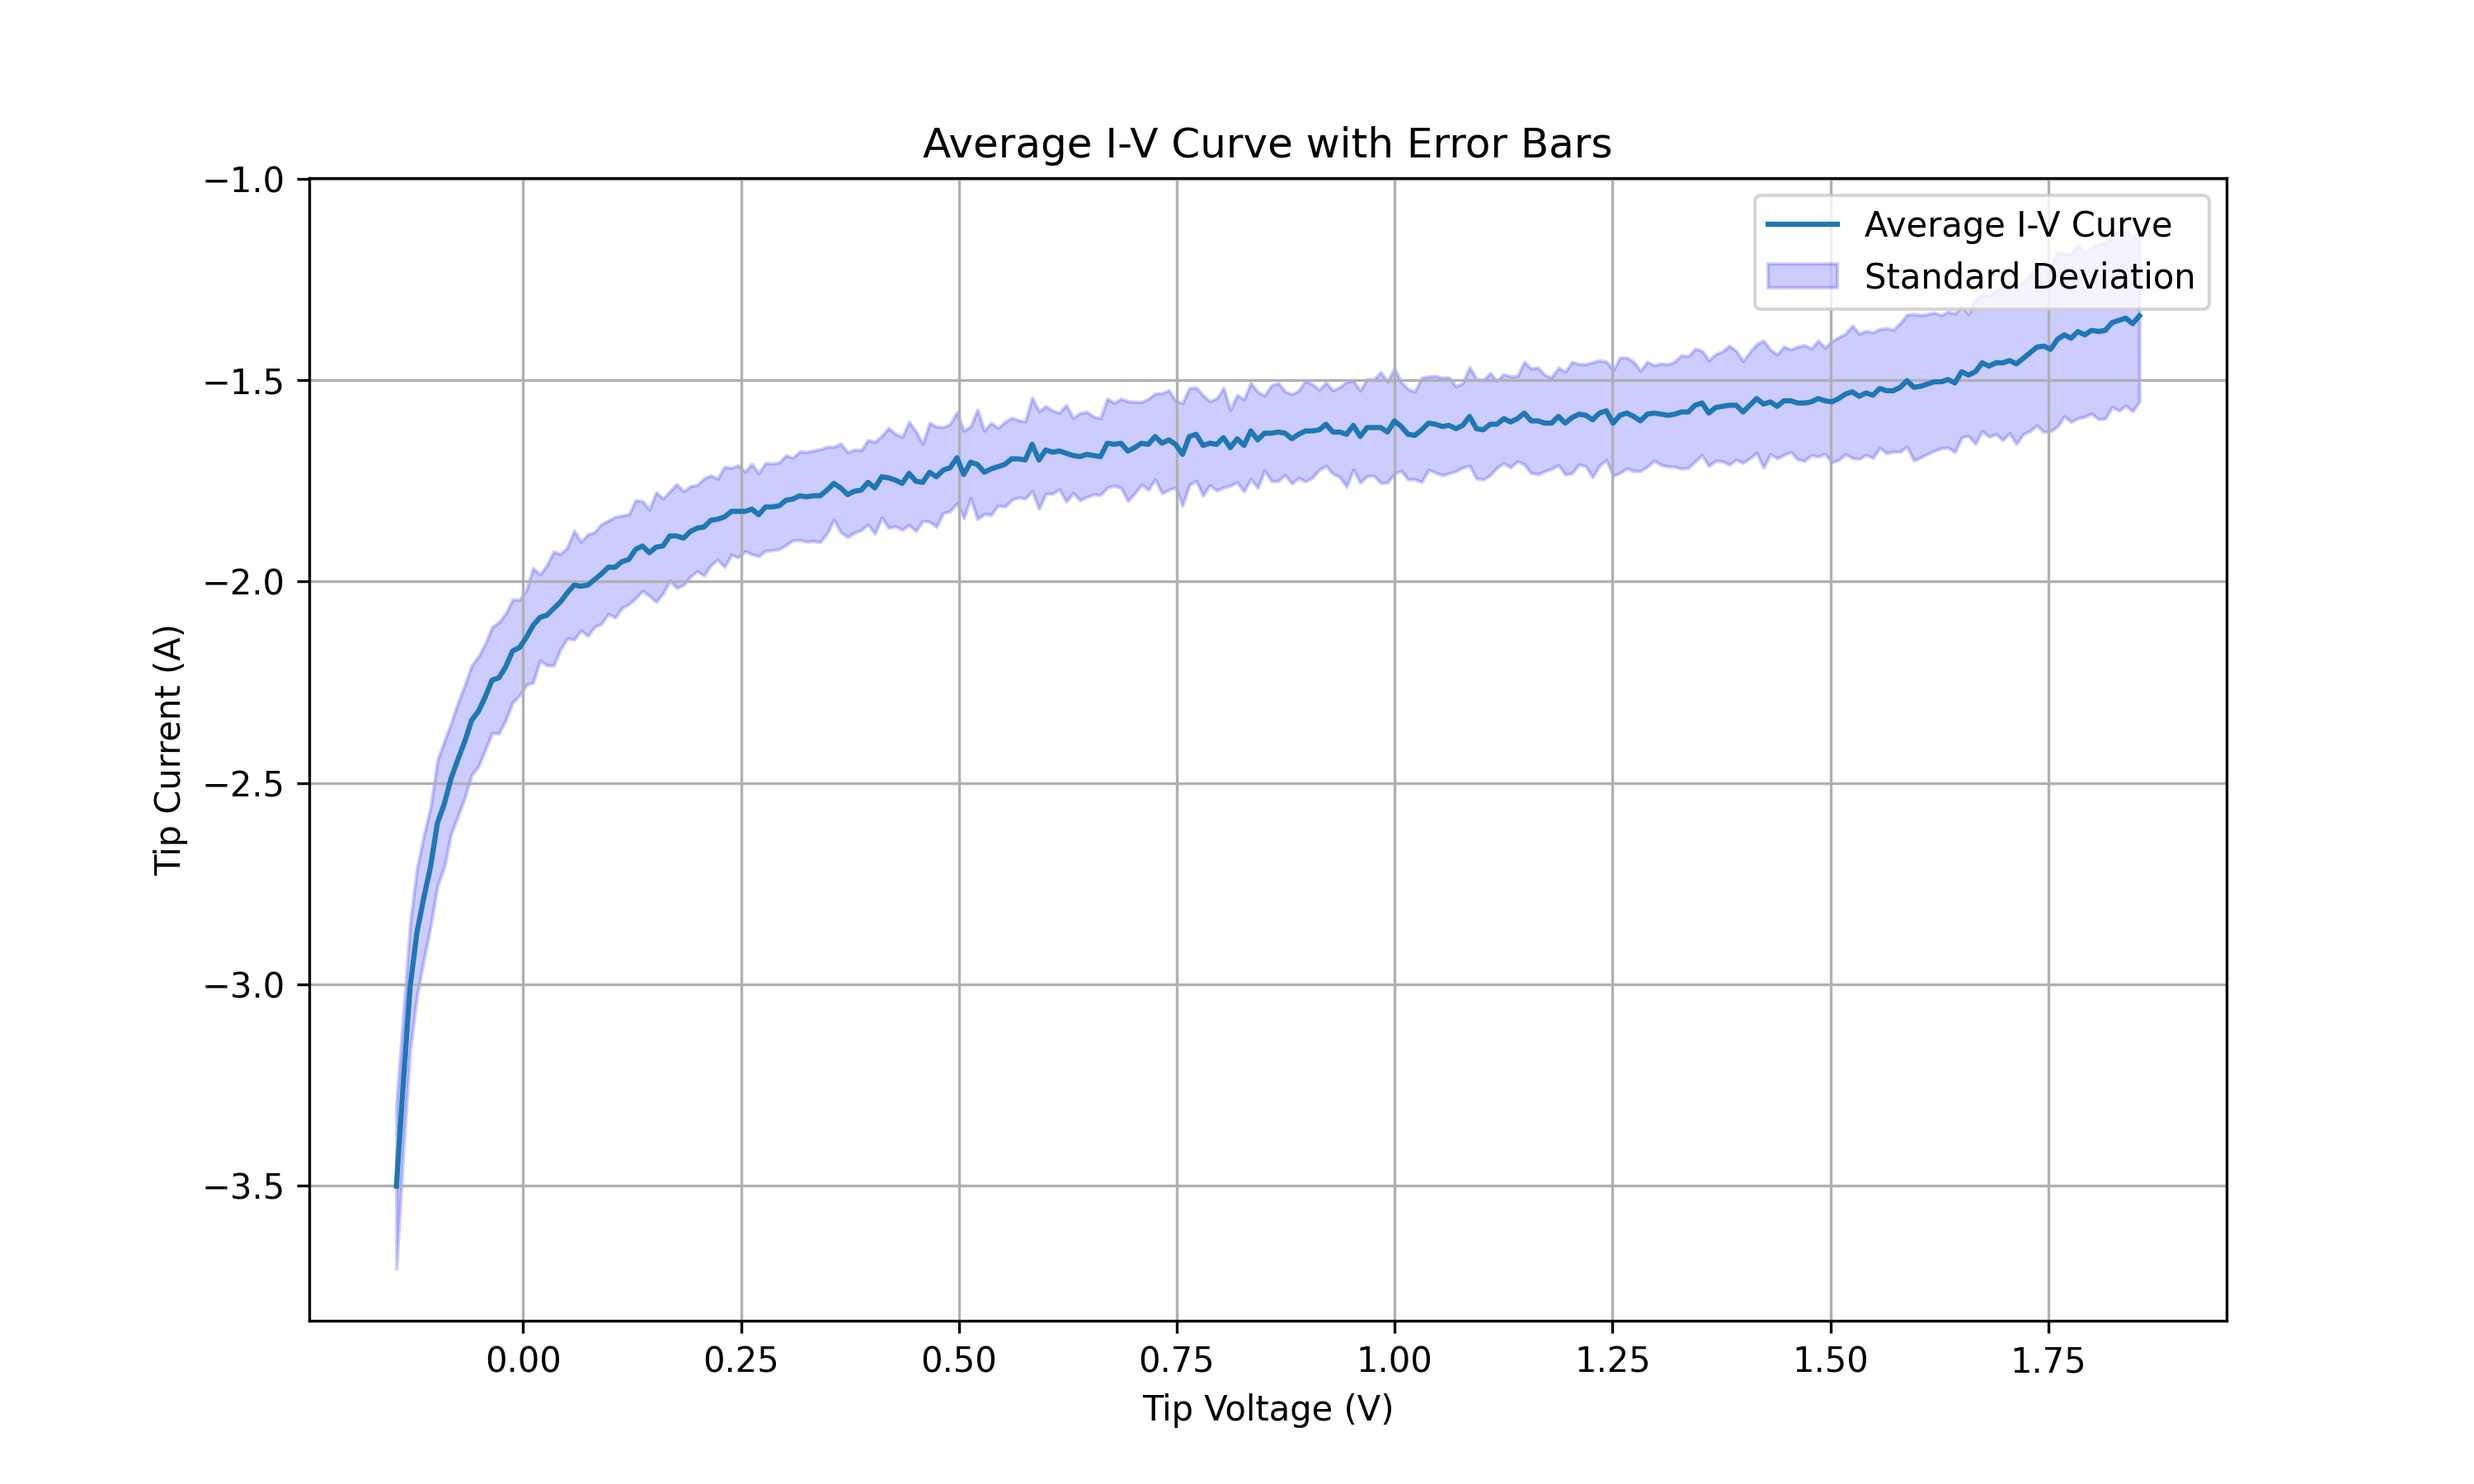
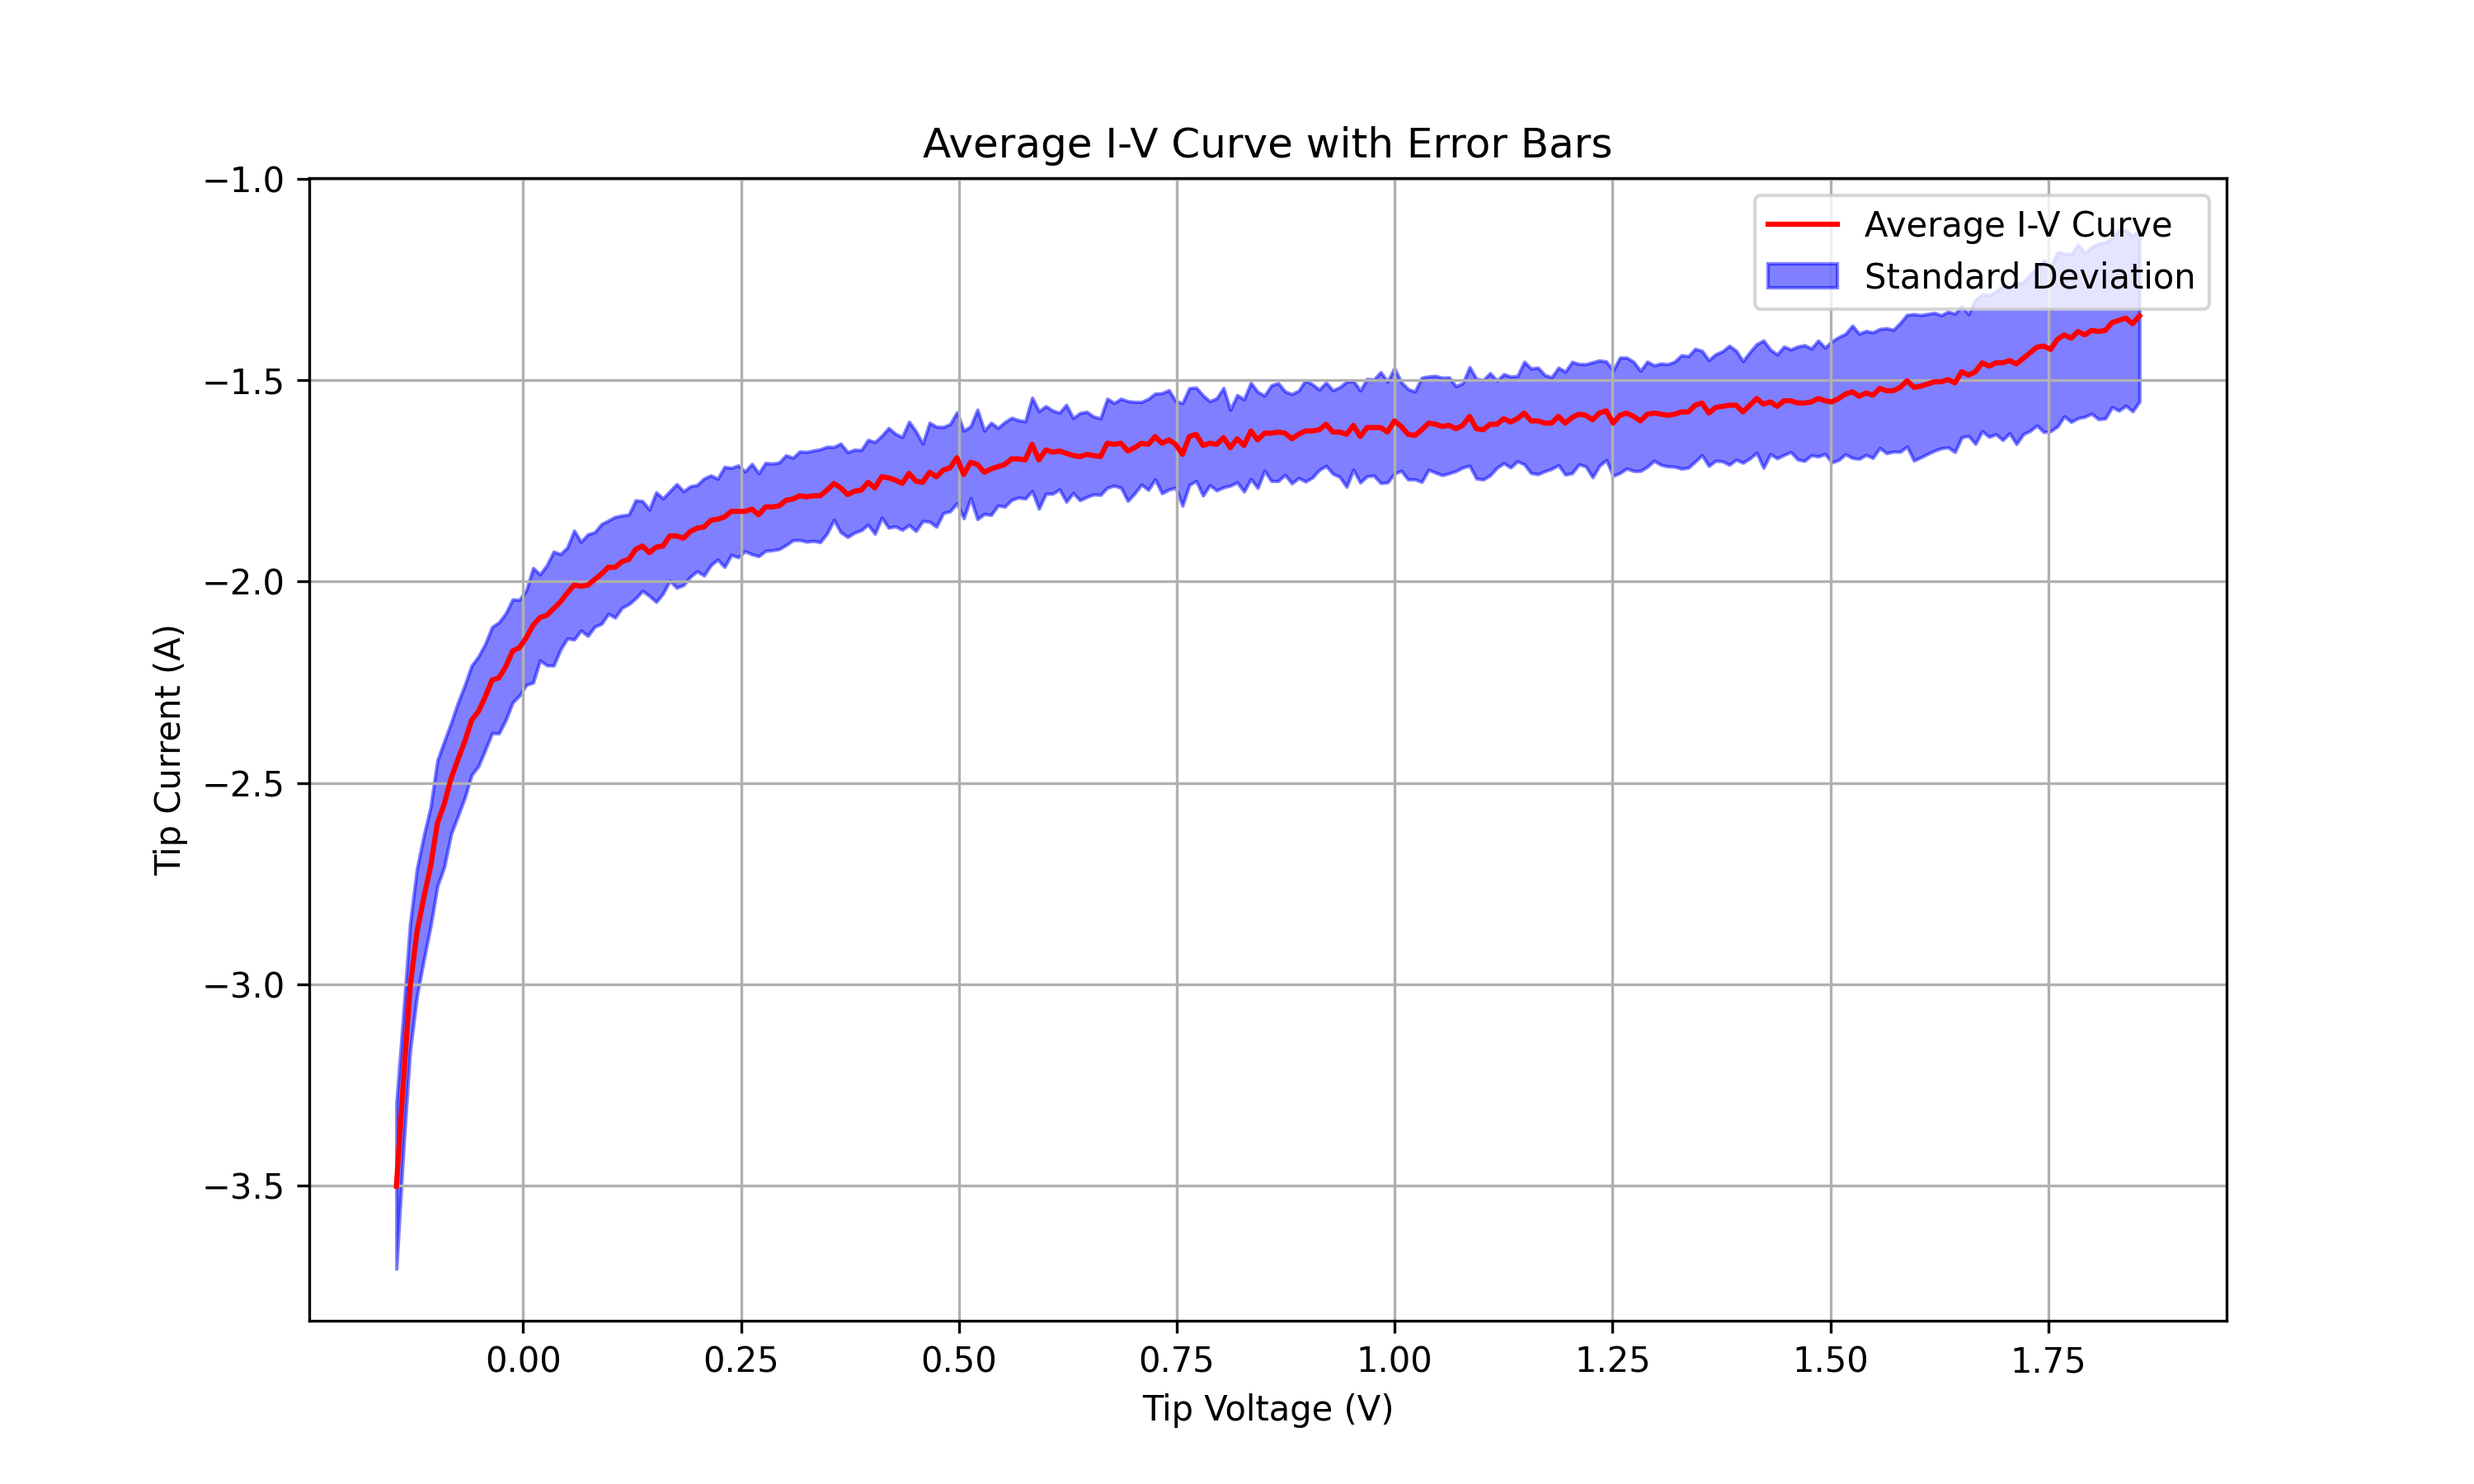
Fixed formatting on IV spectra analysis for Si

Changed region(s): [[0.155, 0.1244, 0.868, 0.8089]]

diff --git a/IVSpecSi.py b/IVSpecSi.py
@@ -37,10 +37,10 @@ average_V = np.mean(all_V_values, axis=0)
 average_I = np.mean(all_I_values, axis=0)
 std_I = np.std(all_I_values, axis=0)
 
-# Plot the average I-V curve with error bars
+# Plot the average I-V curve with errors
 plt.figure(figsize=(10, 6))
-plt.plot(average_V, average_I, label='Average I-V Curve')
-plt.fill_between(average_V, average_I - std_I, average_I + std_I, color='b', alpha=0.2, label='Standard Deviation')
+plt.plot(average_V, average_I, label='Average I-V Curve',color='r')
+plt.fill_between(average_V, average_I - std_I, average_I + std_I, color='b', alpha=0.5, label='Standard Deviation')
 plt.xlabel('Tip Voltage (V)')
 plt.ylabel('Tip Current (A)')
 plt.title('Average I-V Curve with Error Bars')
@@ -69,12 +69,41 @@ print(f"Parameter errors: {errors}")
 
 # Generate the fitted curve
 fit = cubic_function(average_V, *params)
-plt.scatter(average_V, average_I, label=f'Averaged data from {file_count} spectra', s=10)  # 's=10' sets the size of the points
+plt.scatter(average_V, average_I, label=f'Averaged data from {file_count} spectra', s=2)  # 's=10' sets the size of the points
 plt.plot(average_V, fit, 'r-', label='Cubic Fit of the Data')  # 'r-' for red line
-plt.fill_between(average_V,fit - errors[0],fit + errors[0], color='r', alpha=0.8, label='Standard Deviation')
+plt.fill_between(average_V,fit - errors[0],fit + errors[0], color='r', alpha=0.3, label='Standard Deviation')
 plt.legend()
 plt.grid(True)
 plt.xlabel('Voltage (V)')
 plt.ylabel('Current (A)')
 plt.title('Average I vs V')
+plt.savefig('Produced_Plots/Silicon/IV_Si_Fit.png', dpi=300)
+plt.show()
+
+# Calculate the derivative of the cubic fit
+d_cubic_fit = np.polyder(params)
+
+# Evaluate the derivative at the V values
+dIdV = np.polyval(d_cubic_fit, average_V)
+
+# Calculate I/V
+I_over_V = average_I /average_V
+
+# Calculate (dI/dV)/(I/V)
+dIdV_over_IoverV = dIdV / I_over_V
+
+# Calculate the error on (dI/dV)/(I/V)
+dIdV_error = np.polyval(np.polyder(np.polyfit(average_V, std_I, 3)), average_V)
+I_over_V_error = std_I / average_V
+dIdV_over_IoverV_error = np.sqrt((dIdV_error / I_over_V)**2 + (dIdV * I_over_V_error / I_over_V**2)**2)
+
+# Plot (dI/dV)/(I/V) with error bars
+plt.plot(average_V, dIdV_over_IoverV, label='Derivative of fitted curve')  # 'ro' for red points only
+plt.fill_between(average_V, dIdV_over_IoverV - dIdV_over_IoverV_error, dIdV_over_IoverV + dIdV_over_IoverV_error, color='r', alpha=0.5, label='Error')
+plt.grid(True)
+plt.legend()
+plt.xlabel('Voltage (V)')
+plt.ylabel('(dI/dV)/(I/V)')
+plt.title('(dI/dV)/(I/V) vs V')
+plt.savefig('Produced_Plots/Silicon/IV_Si_dIdV_over_IoverV.png', dpi=300)
 plt.show()
